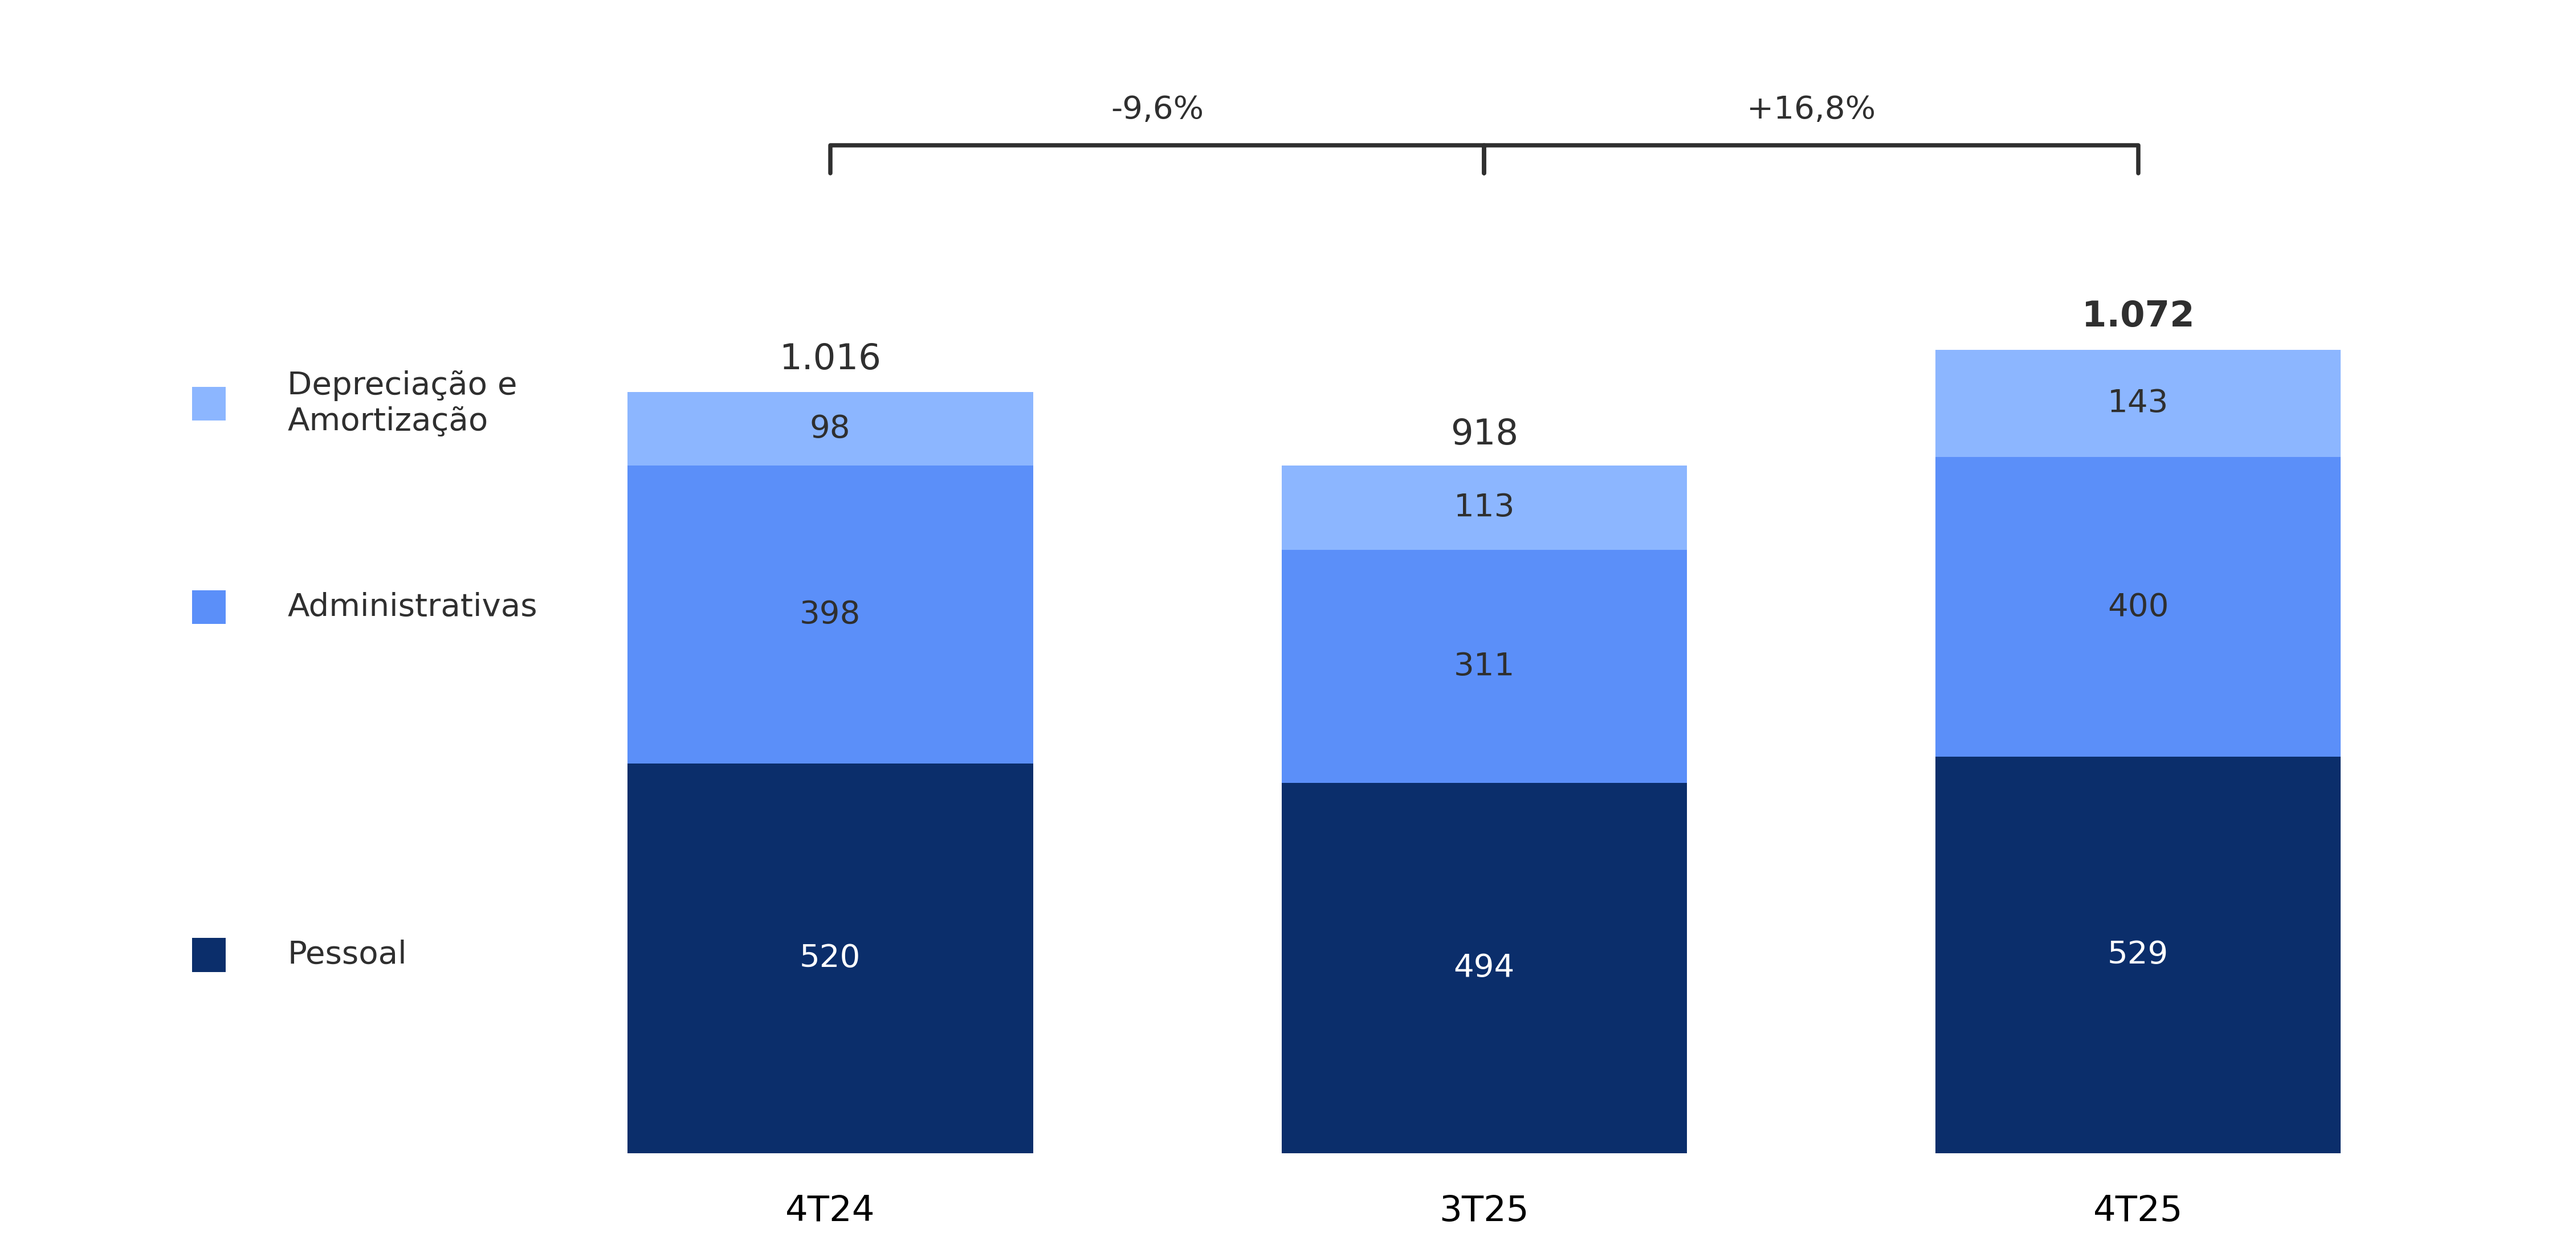
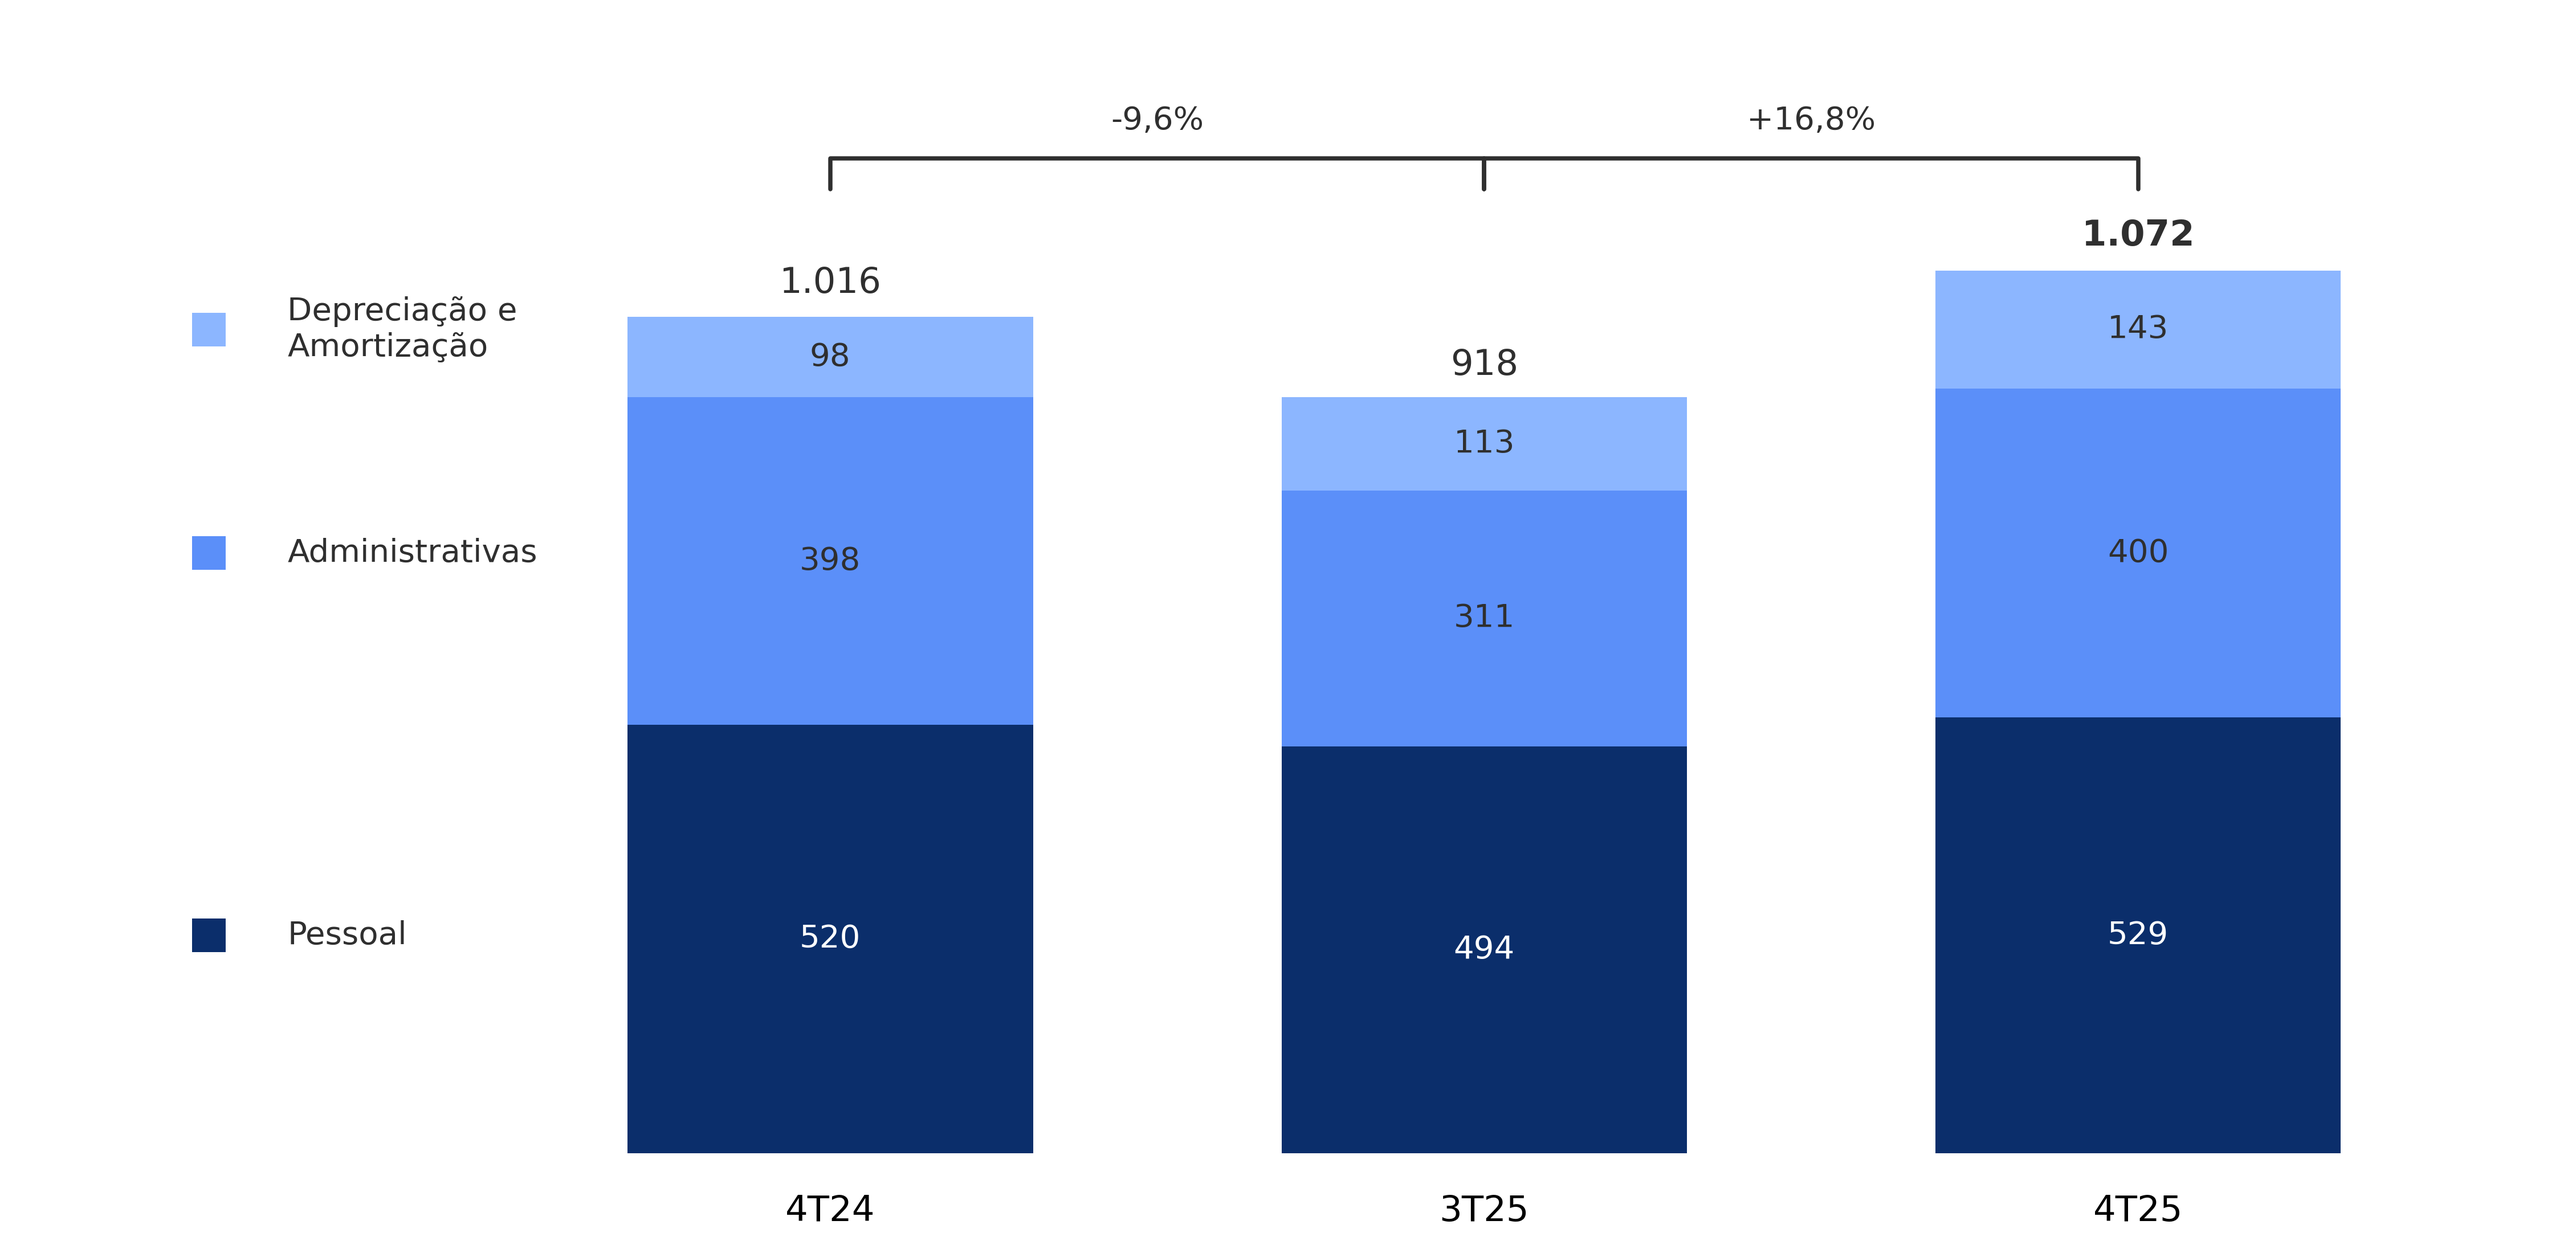
possible adjustment on slide 11

diff --git a/utils/slide11_charts.py b/utils/slide11_charts.py
@@ -147,12 +147,13 @@ def _plot_stacked_expenses(
 
     totals = bottom.copy()
     total_label_tops: list[float] = []
+    total_label_artists = []
     for i, total in enumerate(totals):
         if not np.isfinite(total):
             continue
         y_label = float(total) + max(abs(float(total)) * 0.02, 0.6)
         total_label_tops.append(y_label)
-        ax.text(
+        text_artist = ax.text(
             float(x[i]),
             y_label,
             _fmt_int(total),
@@ -164,6 +165,7 @@ def _plot_stacked_expenses(
             zorder=5,
             clip_on=False,
         )
+        total_label_artists.append(text_artist)
 
     # Brackets/deltas no topo para pares consecutivos, alinhados.
     if n >= 2:
@@ -172,6 +174,13 @@ def _plot_stacked_expenses(
         bracket_h = max(abs_max * 0.035, 0.8)
         top_labels_max = max(total_label_tops) if total_label_tops else float(np.nanmax(totals))
         top_base = float(top_labels_max) + max(abs_max * 0.20, 2.0)
+        if total_label_artists:
+            fig.canvas.draw()
+            renderer = fig.canvas.get_renderer()
+            highest_label_display_y = max(
+                artist.get_window_extent(renderer=renderer).y1 for artist in total_label_artists
+            )
+            top_base = ax.transData.inverted().transform((0.0, highest_label_display_y + 28.0))[1]
         max_text_y: float | None = None
 
         for i in range(1, n):
